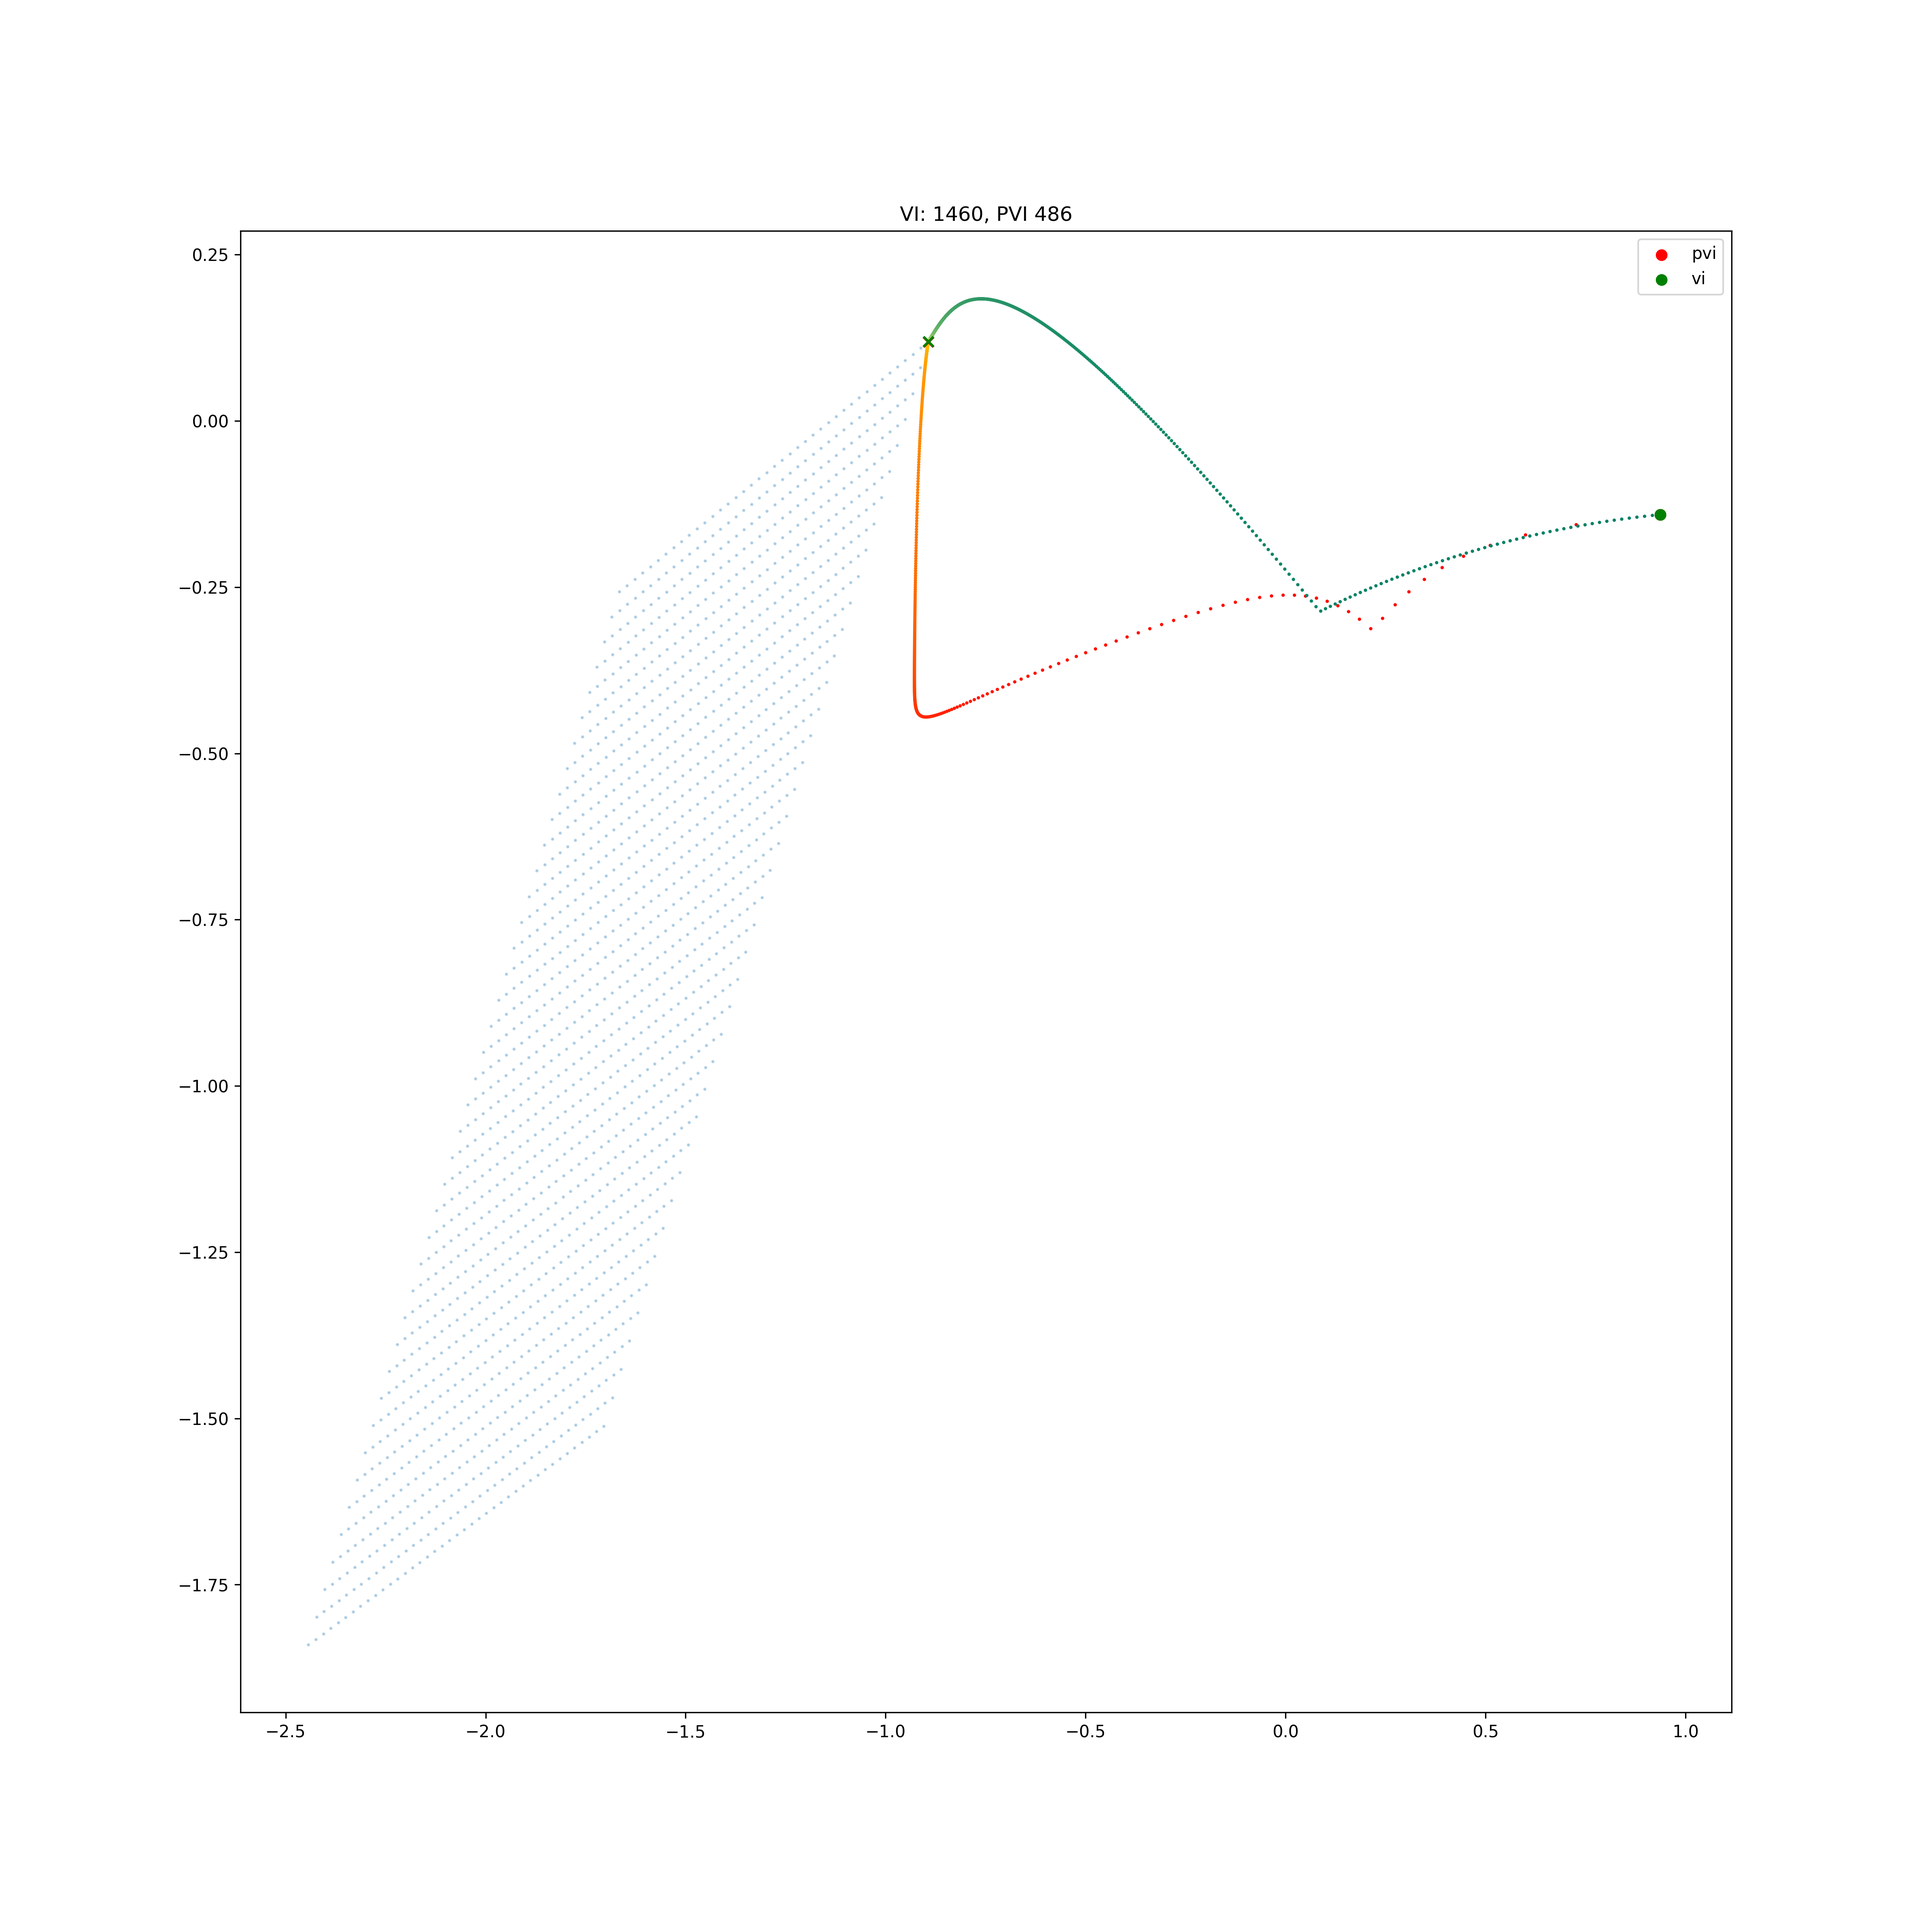
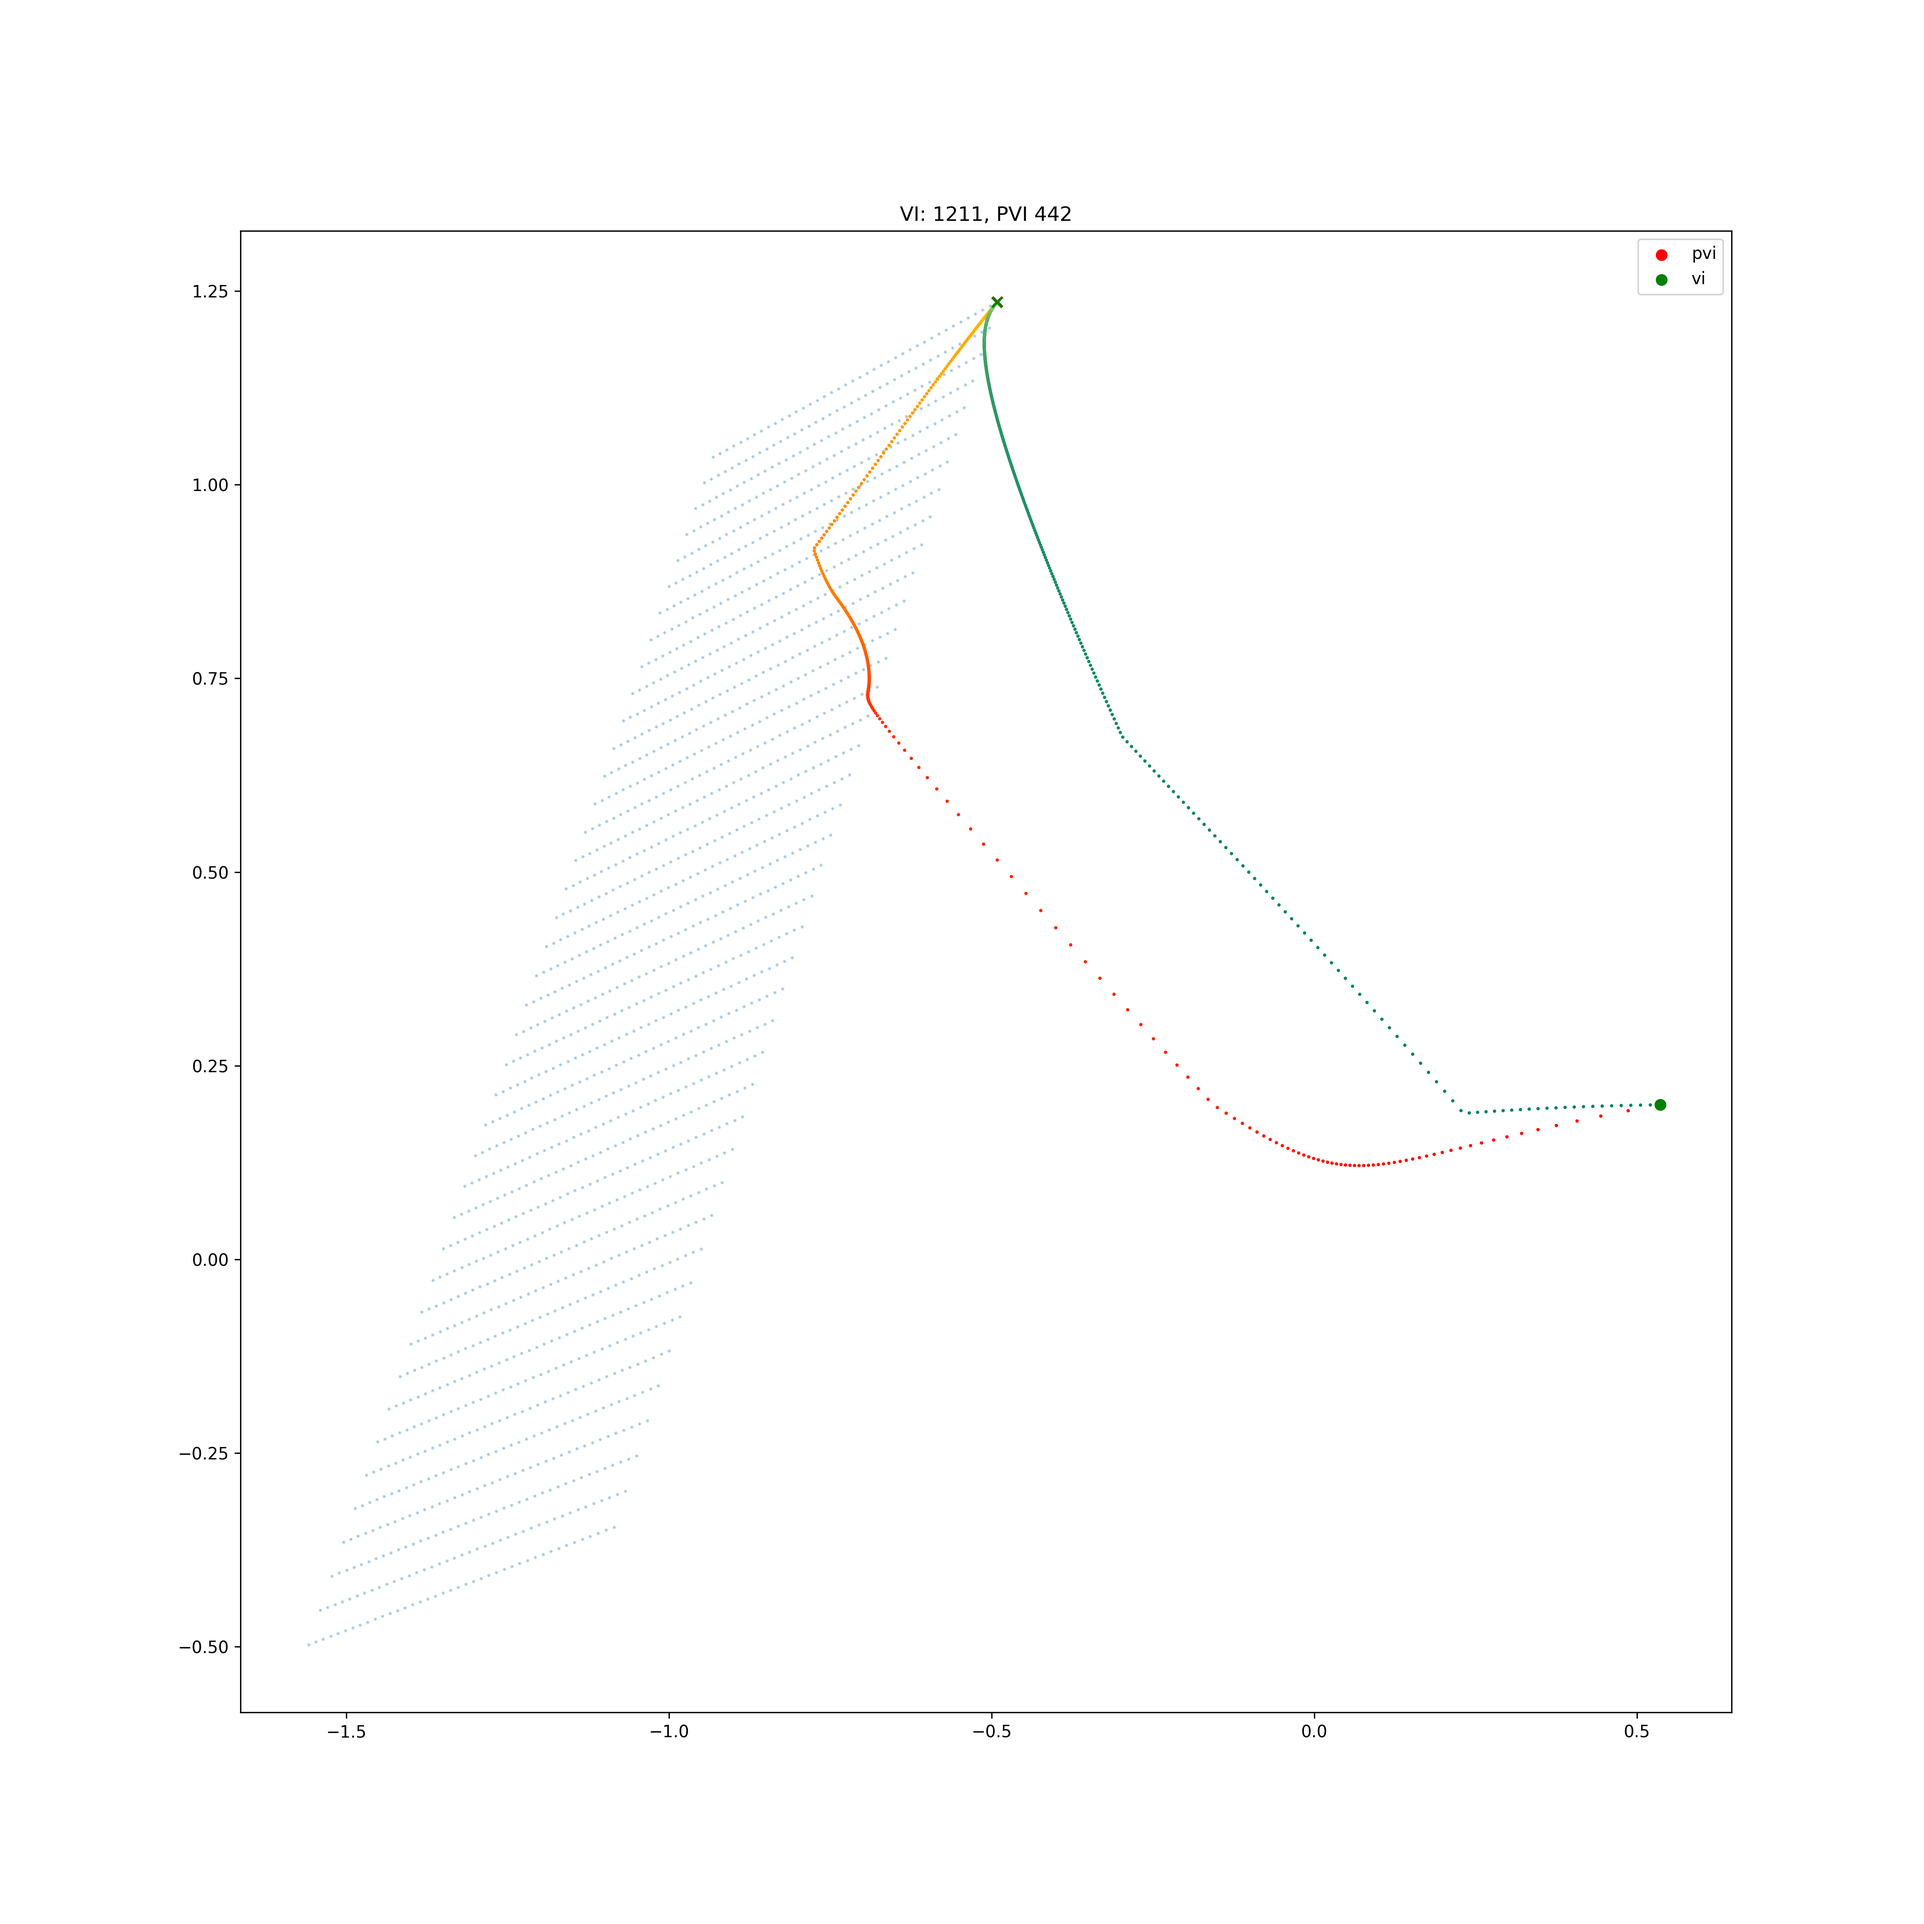
.

Changed region(s): [[0.25, 0.1562, 0.5312, 0.625], [0.25, 0.625, 0.2812, 0.6562]]

diff --git a/code/search_dynamics/trajectory_experiments.py b/code/search_dynamics/trajectory_experiments.py
@@ -105,61 +105,52 @@ def generate_PG_vs_VI(mdp, init):
 
     # PG
     logits = solve(policy_gradient_iteration_logits(mdp, lr), init)
-    vs = np.vstack([np.max(value_functional(mdp.P, mdp.r, softmax(logit, axis=-1), mdp.discount), axis=1) for logit in logits])
+    vs = np.vstack([np.max(value_functional(mdp.P, mdp.r, softmax(logit), mdp.discount), axis=1) for logit in logits])
     n = vs.shape[0]
-    plt.scatter(vs[0, 0], vs[0, 1], c='r', label='PG')
-    plt.scatter(vs[:, 0], vs[:, 1], c=range(n), cmap='autumn', s=1)
+    plt.scatter(vs[0, 0], vs[0, 1], c='g', label='PG')
+    plt.scatter(vs[1:-1, 0], vs[1:-1, 1], c=range(n-2), cmap='summer', s=1)
+    plt.scatter(vs[-1, 0], vs[-1, 1], c='g', marker='x')
 
     # VI
-    init = value_functional(mdp.P, mdp.r, softmax(init, axis=-1), mdp.discount)
-    init = np.einsum('ijk,il->ik', mdp.P, init)
+    init = bellman_optimality_operator(mdp.P, mdp.r, vs[0:1, :].T, mdp.discount)  # V->Q
     qs = solve(value_iteration(mdp, lr), init)
     vs = np.vstack([np.max(q, axis=1) for q in qs])
     m = vs.shape[0]
-    plt.scatter(vs[0, 0], vs[0, 1], c='g', label='vi')
-    plt.scatter(vs[:, 0], vs[:, 1], c=range(m), cmap='summer', s=1)
-    plt.title('PG: {}, VI {}'.format(n, m))
+    plt.scatter(vs[0, 0], vs[0, 1], c='r', label='VI')
+    plt.scatter(vs[1:-1, 0], vs[1:-1, 1], c=range(m-2), cmap='autumn', s=1)
+    plt.scatter(vs[-1, 0], vs[-1, 1], c='r', marker='x')
     plt.legend()
     plt.colorbar()
 
     plt.savefig('figs/pg-vs-vi.png')
     plt.close()
 
-def generate_PG_vs_PPG(mdp):
+def generate_PG_vs_PPG(mdp, init):
     print('\nRunning PG vs PPG')
-    lr = 0.01
+    lr = 0.1
 
     # PPG
     core_init = random_parameterised_matrix(2, 2, 32, 8)
+    core_init = approximate(init, core_init)
     all_params = solve(parameterised_policy_gradient_iteration(mdp, lr), core_init)
     vs = np.vstack([np.max(value_functional(mdp.P, mdp.r, softmax(build(params), axis=-1), mdp.discount), axis=1)
                     for params in all_params])
     m = vs.shape[0]
     plt.scatter(vs[0, 0], vs[0, 1], c='g', label='PPG')
-    plt.scatter(vs[1:-1, 0], vs[1:-1, 1], c=range(m-2), cmap='summer')
+    plt.scatter(vs[1:-1, 0], vs[1:-1, 1], c=range(m-2), cmap='summer', s=1)
     plt.scatter(vs[-1, 0], vs[-1, 1], c='g', marker='x')
 
-    if np.isnan(vs).any() or np.isinf(vs).any:
-        print('NAN')
-        print(vs[np.isnan(vs)], vs[np.isinf(vs)])
-        print(vs[-1])
-
     # PG
-    init = build(core_init)
     logits = solve(policy_gradient_iteration_logits(mdp, lr), init)
     vs = np.vstack([np.max(value_functional(mdp.P, mdp.r, softmax(logit, axis=-1), mdp.discount), axis=1) for logit in logits])
     n = vs.shape[0]
     plt.scatter(vs[0, 0], vs[0, 1], c='r', label='PG')
-    plt.scatter(vs[1:-1, 0], vs[1:-1, 1], c=range(n-2), cmap='autumn')
+    plt.scatter(vs[1:-1, 0], vs[1:-1, 1], c=range(n-2), cmap='autumn', s=1)
     plt.scatter(vs[-1, 0], vs[-1, 1], c='r', marker='x')
 
     plt.title('PG: {}, PPG {}'.format(n, m))
     plt.legend()
     # plt.colorbar()
-    if np.isnan(vs).any() or np.isinf(vs).any:
-        print('NAN')
-        print(vs[np.isnan(vs)], vs[np.isinf(vs)])
-        print(vs[-1])
 
     plt.savefig('figs/pg-vs-ppg.png', dpi=300)
     plt.close()
@@ -275,12 +266,15 @@ if __name__ == '__main__':
     init = np.random.standard_normal((mdp.S, mdp.A))
 
     experiments = [
-        generate_vi_sgd_vs_mom,
-        generate_pvi_vs_vi,
+        # generate_vi_sgd_vs_mom,
+        # generate_pvi_vs_vi,
+        #
         # generate_avi_vs_vi,
         # generate_mpvi_vs_mvi,
-        # generate_PG_vs_VI,
-        # generate_PG_vs_PPG,
+        #
+        generate_PG_vs_VI,
+        generate_PG_vs_PPG,
+        #
         # generate_mpvi_inits,
     ]
 

diff --git a/code/search_dynamics/utls.py b/code/search_dynamics/utls.py
@@ -159,8 +159,12 @@ def bellman_optimality_operator(P, r, Q, discount):
     Returns:
         (np.ndarray): [n_states, n_actions]
     """
-    # Q(s, a) =  r(s, a) + \gamma max_a' E_{s'~P(s' | s, a)} Q(s', a')
-    return r + discount*np.max(np.einsum('ijk,ik->jk', P, Q), axis=1, keepdims=True)
+    if Q.shape[1] == 1:  # Q == V
+        # Q(s, a) =  r(s, a) + \gamma E_{s'~P(s' | s, a)} V(s')
+        return r + discount*np.einsum('ijk,il->jk', P, Q)
+    else:
+        # Q(s, a) =  r(s, a) + \gamma max_a' E_{s'~P(s' | s, a)} Q(s', a')
+        return r + discount*np.max(np.einsum('ijk,il->jkl', P, Q), axis=-1)
 
 def state_visitation_distribution(P, pi, discount, d0):
     """
@@ -240,30 +244,29 @@ def adjusted_value_iteration(mdp, lr, D, K):
 
 # def policy_iteration(mdp, lr):
 #     V = lambda pi: value_functional(mdp.P, mdp.r, mpi(pi), mdp.discount)
+#     greedy =
 #     delta = lambda pi: np.dot(dpidw, 1/(pi*np.log(mdp.A)))
 #     U = lambda pi: pi + lr * np.dot(V, delta(pi))
 #     return U
 
 def entropy(p, axis=1):
-    return np.sum(np.log(p) * p)
+    return -np.sum(np.log(p) * p)
 
 def softmax(x, axis=-1):
     return np.exp(x)/np.sum(np.exp(x), axis=-1, keepdims=True)
 
-def greedy(x):
-    return np.argmax(x, axis=1)
-
 def policy_gradient_iteration_logits(mdp, lr):
     # d/dlogits V = E_{\pi}[V] = E[V . d/dlogit log \pi]
-    dlogpi_dlogit = jacrev(lambda logits: np.log(softmax(logits, axis=1)))
+    dlogpi_dlogit = jacrev(lambda logits: np.log(softmax(logits)))
     dHdlogit = jacrev(lambda logits: entropy(softmax(logits)))
 
     @jit
     def update_fn(logits):
-        V = value_functional(mdp.P, mdp.r, softmax(logits, axis=1), mdp.discount)
-        Q = np.einsum('ijk,il->jk', mdp.P, V)
+        V = value_functional(mdp.P, mdp.r, softmax(logits), mdp.discount)
+        Q = bellman_optimality_operator(mdp.P, mdp.r, V, mdp.discount)
         A = Q-V
-        return logits + lr * np.einsum('ijkl,ij->kl', dlogpi_dlogit(logits), A) + (1e-4*dHdlogit(logits))
+        g = np.einsum('ijkl,ij->kl', dlogpi_dlogit(logits), A)
+        return logits + (1e-6*dHdlogit(logits)) + lr * g
     return update_fn
 
 def parameterised_policy_gradient_iteration(mdp, lr):
@@ -273,10 +276,10 @@ def parameterised_policy_gradient_iteration(mdp, lr):
     @jit
     def update_fn(cores):
         V = value_functional(mdp.P, mdp.r, softmax(build(cores), axis=1), mdp.discount)
-        Q = np.einsum('ijk,il->jk', mdp.P, V)
+        Q = bellman_optimality_operator(mdp.P, mdp.r, V, mdp.discount)
         A = Q-V
         grads = [np.einsum('ijkl,ij->kl', d, A) for d in dlogpi_dw(cores)]
-        return [c+lr*g+1e-4*dH for c, g, dH in zip(cores, grads, dHdw(cores))]
+        return [c+lr*g+1e-6*dH for c, g, dH in zip(cores, grads, dHdw(cores))]
     return update_fn
 
 ######################
